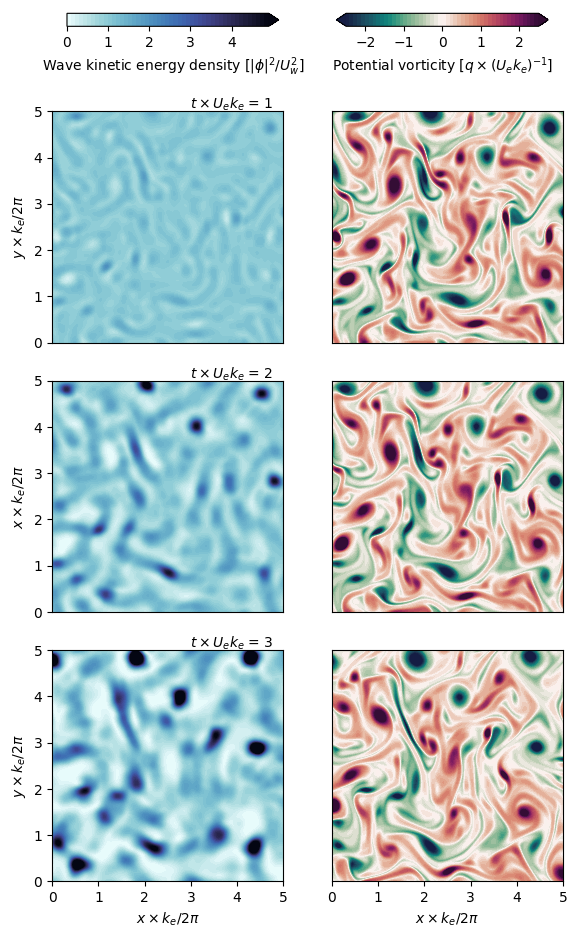
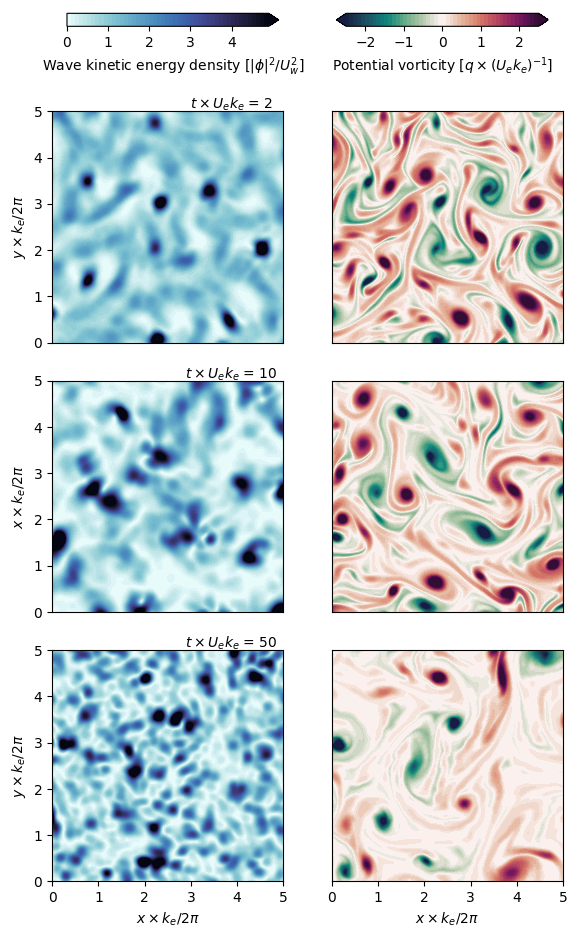
Playing with params

diff --git a/writeup/table2.tex b/writeup/table2.tex
@@ -3,11 +3,11 @@
 \caption{The time-integrated budget of wave potential energy and quasigeostrophic                kinetic energy of the decaying turbulence dipole expirement. \label{table2}}
 \begin{tabular}{cccc}
 $\dot{P}_w$ budget & Rel. contribution ($\int\dot{P}_w \dd t/\Delta P_w dt$) & $\dot{K}_e$ budget & Rel. contribution ($\int\dot{K}_e \dd t/\Delta K_e$) \\
-$\Gamma_r$ & 0.03 & -$\Gamma_r$ & -0.026 \\
-$\Gamma_a$ & 1.025 & -$\Gamma_a$ & -0.894 \\
-$-$ & $-$ & $\Xi_r$ & 0.019 \\
+$\Gamma_r$ & 0.012 & -$\Gamma_r$ & -0.011 \\
+$\Gamma_a$ & 1.034 & -$\Gamma_a$ & -0.906 \\
+$-$ & $-$ & $\Xi_r$ & 0.016 \\
 $-$ & $-$ & $\Xi_a$ & 0.0 \\
-$\chi_\phi$ & -0.055 & $\epsilon_\psi$ & -0.099 \\
+$\chi_\phi$ & -0.047 & $\epsilon_\psi$ & -0.1 \\
 Res. & 0.0 & Res. & 0.0 \\
 \end{tabular}
 \end{center}

diff --git a/code/Figure3.py b/code/Figure3.py
@@ -12,7 +12,7 @@ from Utils import *
 
 plt.close('all')
 
-pathi = "outputs/decaying_turbulence/coupled_new7/"
+pathi = "outputs/decaying_turbulence/coupled/"
 patho = "../writeup/figs/"
 
 ## get params
@@ -30,8 +30,8 @@ x, y = setup['grid/x'][:]*ke/(2*np.pi), setup['grid/y'][:]*ke/(2*np.pi)
 #files = ['000000000016667.h5', '000000001333333.h5',
 #            '000000002666667.h5', '000000008000000.h5']
 
-files = ['000000001000000.h5', '000000004000000.h5', '000000000200000.h5']
-files = ['000000000225000.h5', '000000000650000.h5', '000000001375000.h5']
+files = ['000000001000000.h5', '000000004000000.h5', '000000020000000.h5']
+#files = ['000000000225000.h5', '000000000650000.h5', '000000001375000.h5']
 
 def plot_snapshot(fig, snap, panel = 1):
     """ Plot snapshot of vorticity and

diff --git a/code/DecayingTurbulence.py b/code/DecayingTurbulence.py
@@ -24,7 +24,7 @@ from niwqg import InitialConditions as ic
 plt.close('all')
 
 patho_qg = "outputs/decaying_turbulence/qg_initial_condition"
-patho_qgniw = "outputs/decaying_turbulence/coupled"
+patho_qgniw = "outputs/decaying_turbulence/coupled_new"
 
 # parameters
 nx = 512
@@ -33,7 +33,7 @@ N = 0.005
 L = 2*np.pi*200e3
 λz = 400
 m = 2*np.pi/λz
-nu4, nu4w = 5e7, 1e6 # hyperviscosity
+nu4, nu4w = 2.5e7, 4.25e6 # hyperviscosity
 
 # initial conditions
 Ue = 5.e-2

diff --git a/code/Figure4.py b/code/Figure4.py
@@ -12,7 +12,7 @@ from Utils import *
 
 plt.close('all')
 
-pathi = "outputs/decaying_turbulence/coupled_new7/"
+pathi = "outputs/decaying_turbulence/coupled/"
 patho = "../writeup/figs/"
 
 params = h5py.File(pathi+"parameters.h5","r")

diff --git a/code/Table2.py b/code/Table2.py
@@ -15,7 +15,7 @@ from Utils import *
 
 plt.close('all')
 
-pathi = "outputs/decaying_turbulence/coupled_new7/"
+pathi = "outputs/decaying_turbulence/coupled/"
 patho = "../writeup/figs/"
 
 params = h5py.File(pathi+"parameters.h5","r")
